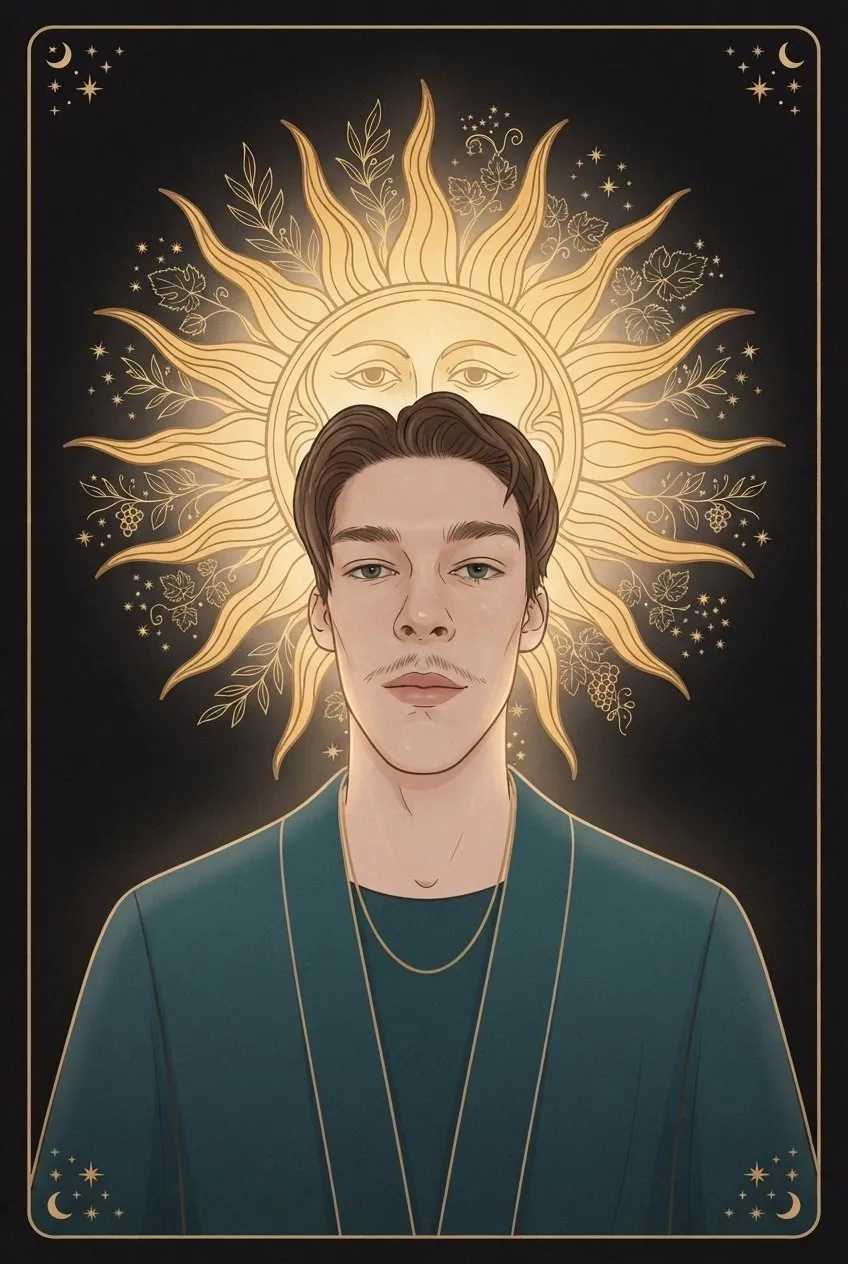
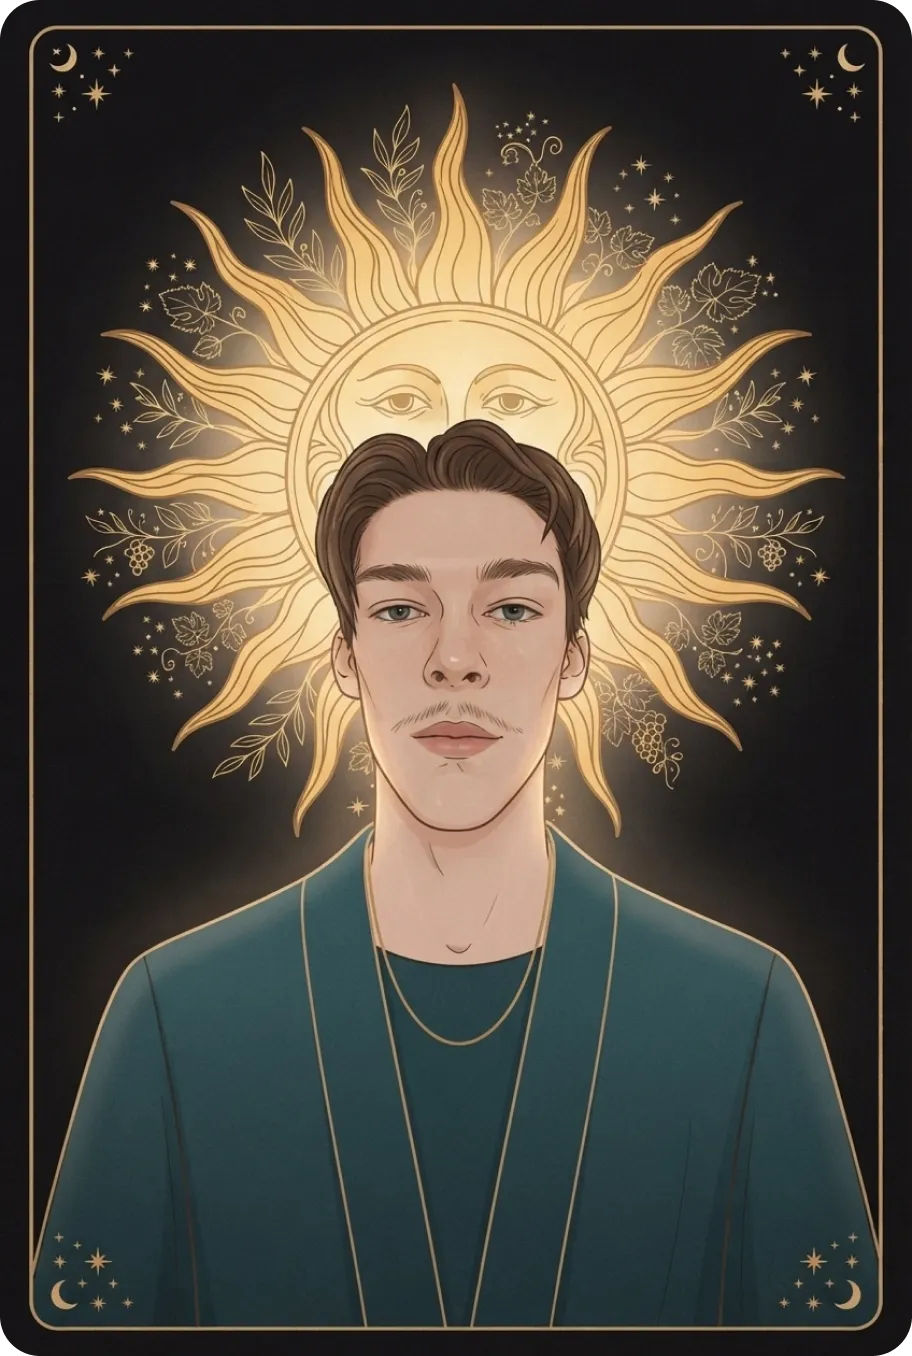
fixi

diff --git a/src/js/modal.js b/src/js/modal.js
@@ -5,7 +5,13 @@ import { prefersReducedMotion } from './utils.js';
 import { fillProfile } from './modalContent.js';
 import { lockScroll, trapFocus, unlockScroll } from './modalFocus.js';
 import { createNavigator } from './modalNav.js';
-import { FLIGHT_DUR, flyArt, openCardFlight, restoreSourceCard } from './modalFlip.js';
+import {
+  FLIGHT_DUR,
+  flyArt,
+  openCardFlight,
+  restoreAllCardArt,
+  restoreSourceCard,
+} from './modalFlip.js';
 import { flipFaceUp, isFaceUp, isFlipping, setFaceUp } from './cardFlip.js';
 import {
   clearScrollLocks,
@@ -148,6 +154,8 @@ function showModal(sourceCard) {
   root.removeAttribute('inert');
   root.setAttribute('aria-hidden', 'false');
 
+  restoreAllCardArt();
+
   const reduced = prefersReducedMotion();
   const reveals = root.querySelectorAll('.profile-modal__reveal');
   const backdrop = root.querySelector('.profile-modal__backdrop');
@@ -249,6 +257,7 @@ function closeModal(opts = {}) {
     gsap.set([backdrop, panel, art, body, navBar, closeBtn], {
       clearProps: 'opacity,transform,visibility',
     });
+    restoreAllCardArt();
     restoreSourceCard(focusEl);
     busy = false;
     unlockScroll(scrollY);
@@ -261,6 +270,7 @@ function closeModal(opts = {}) {
   };
 
   if (reduced) {
+    restoreAllCardArt();
     restoreSourceCard(focusEl);
     gsap.to([backdrop, panel], { opacity: 0, duration: 0.15 });
     closeGate = gsap.delayedCall(0.2, finishClose);

diff --git a/src/js/modalFlip.js b/src/js/modalFlip.js
@@ -175,6 +175,13 @@ export function restoreSourceCard(card) {
   if (art) gsap.set(art, { clearProps: 'opacity' });
 }
 
+/** Clear flight opacity on every deck card art (not modal portrait). */
+export function restoreAllCardArt() {
+  document.querySelectorAll('.card__art').forEach((art) => {
+    gsap.set(art, { clearProps: 'opacity' });
+  });
+}
+
 function settleSource(card) {
   card.classList.remove('is-hot');
   document.dispatchEvent(new CustomEvent('deck:sync-idle'));

diff --git a/src/styles/modal.css b/src/styles/modal.css
@@ -635,7 +635,7 @@ body.is-modal-open {
   .profile-modal__nav {
     grid-area: nav;
     justify-self: center;
-    padding: 0.75rem 0 0;
+    padding: 1.35rem 0 0;
   }
 
   .profile-modal__portrait {
